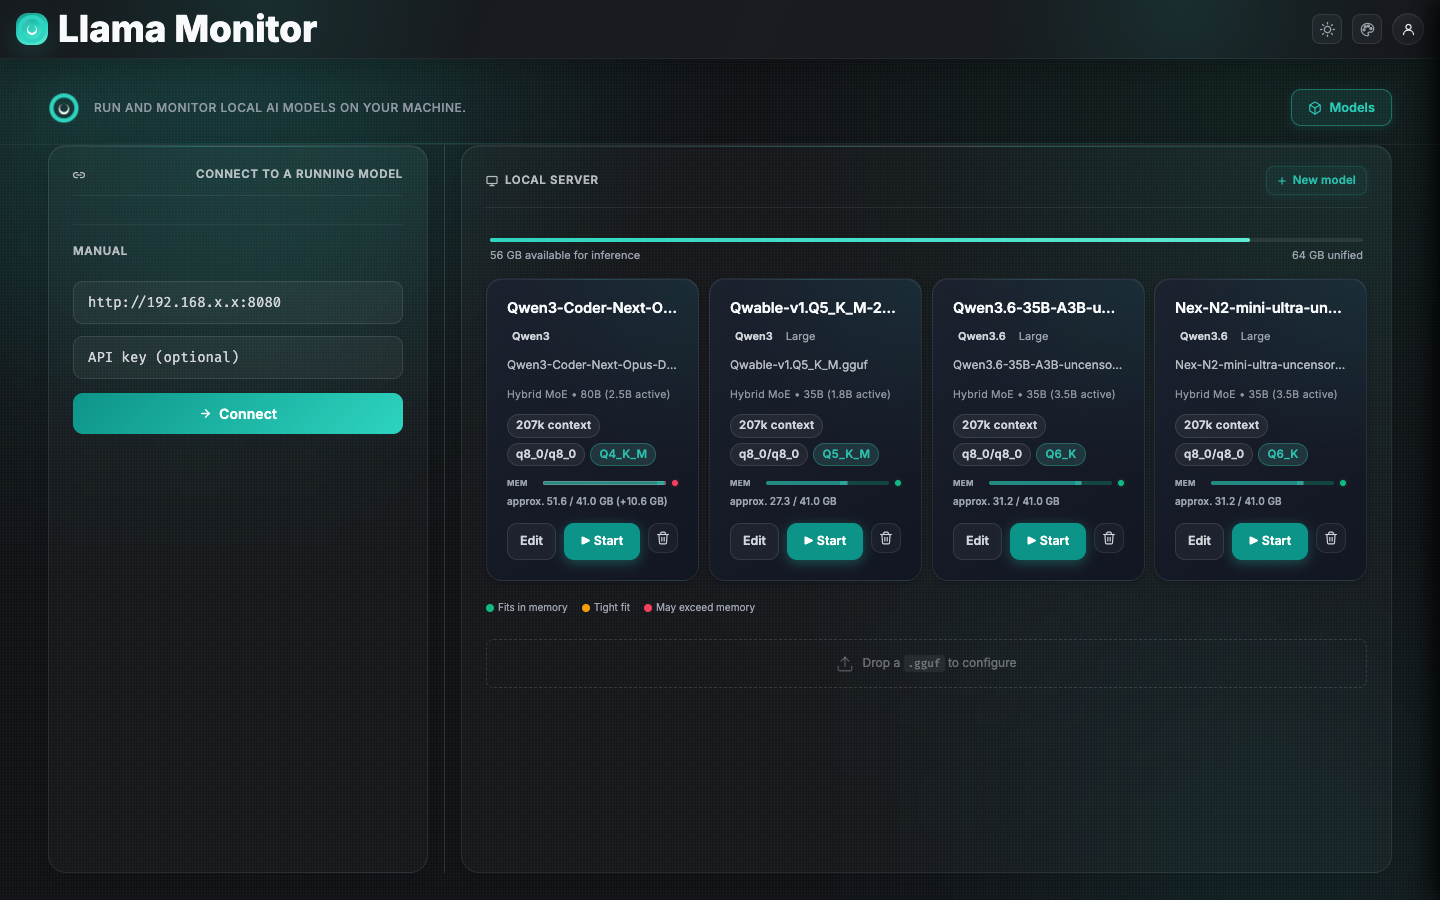
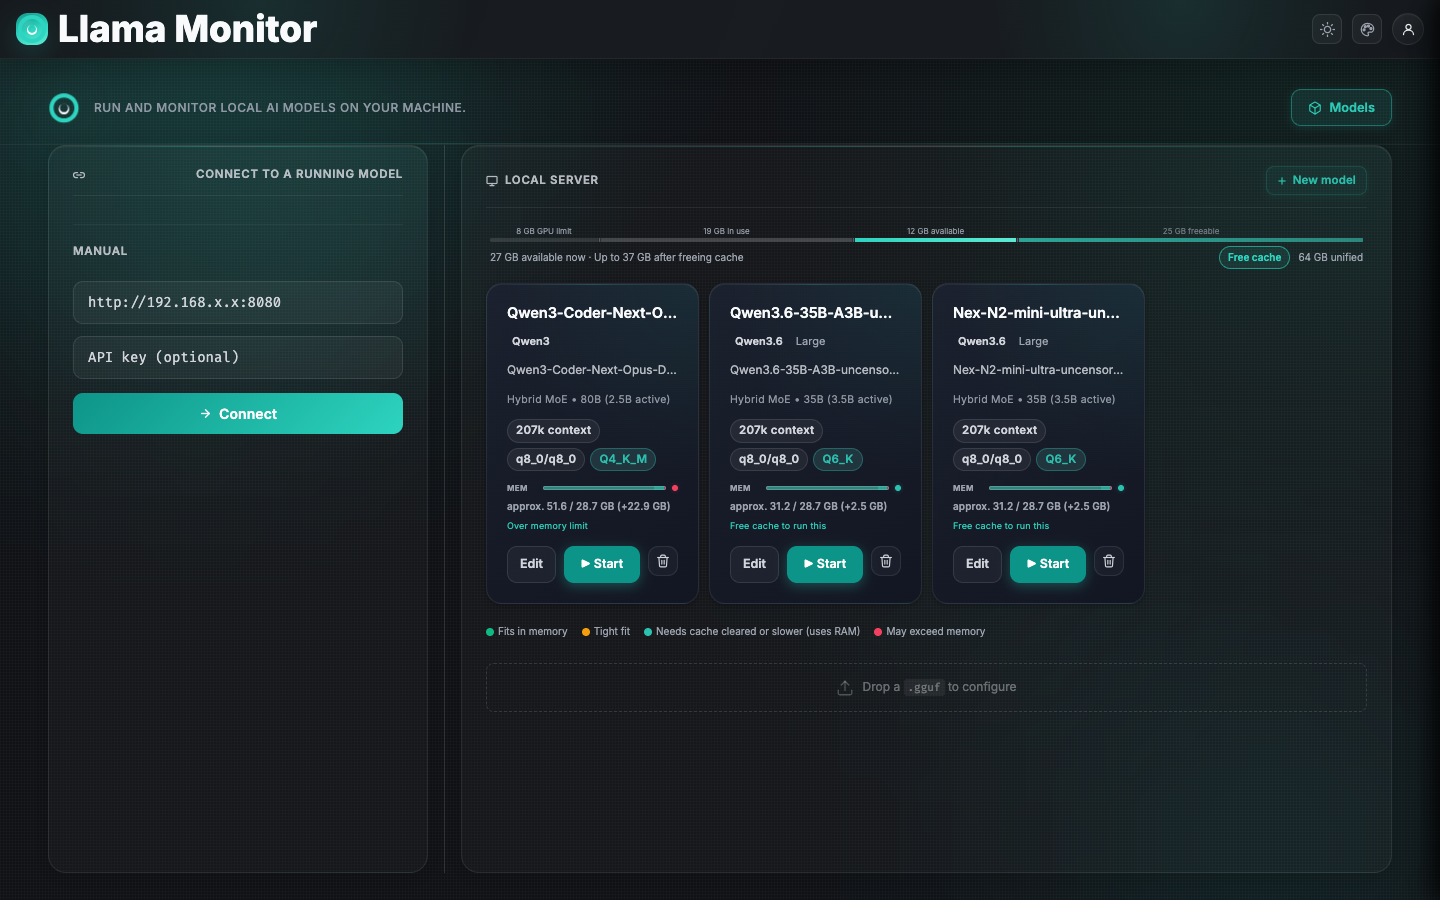
fmt + promote welcome-welcome.png screenshot

diff --git a/src/gen/static_assets.rs b/src/gen/static_assets.rs
@@ -9,7 +9,8 @@ pub const CSS_AUTH: &str = include_str!("../../static/css/auth.css");
 pub const CSS_BASE: &str = include_str!("../../static/css/base.css");
 pub const CSS_CARDS_HARDWARE: &str = include_str!("../../static/css/cards-hardware.css");
 pub const CSS_CARDS_INFERENCE: &str = include_str!("../../static/css/cards-inference.css");
-pub const CSS_CHAT_GUIDED_GENERATION: &str = include_str!("../../static/css/chat-guided-generation.css");
+pub const CSS_CHAT_GUIDED_GENERATION: &str =
+    include_str!("../../static/css/chat-guided-generation.css");
 pub const CSS_CHAT_HISTORY_QA: &str = include_str!("../../static/css/chat-history-qa.css");
 pub const CSS_CHAT: &str = include_str!("../../static/css/chat.css");
 pub const CSS_COMMAND_PALETTE: &str = include_str!("../../static/css/command-palette.css");
@@ -32,55 +33,76 @@ pub const CORE_APP_STATE_JS: &str = include_str!("../../static/js/core/app-state
 pub const CORE_FORMAT_JS: &str = include_str!("../../static/js/core/format.js");
 pub const CORE_TOOLTIP_JS: &str = include_str!("../../static/js/core/tooltip.js");
 pub const FEATURES_ANIMATE_JS: &str = include_str!("../../static/js/features/animate.js");
-pub const FEATURES_ATTACH_DETACH_JS: &str = include_str!("../../static/js/features/attach-detach.js");
+pub const FEATURES_ATTACH_DETACH_JS: &str =
+    include_str!("../../static/js/features/attach-detach.js");
 pub const FEATURES_AUTH_JS: &str = include_str!("../../static/js/features/auth.js");
-pub const FEATURES_CHAT_FOCUS_MODE_JS: &str = include_str!("../../static/js/features/chat-focus-mode.js");
-pub const FEATURES_CHAT_HISTORY_QA_JS: &str = include_str!("../../static/js/features/chat-history-qa.js");
+pub const FEATURES_CHAT_FOCUS_MODE_JS: &str =
+    include_str!("../../static/js/features/chat-focus-mode.js");
+pub const FEATURES_CHAT_HISTORY_QA_JS: &str =
+    include_str!("../../static/js/features/chat-history-qa.js");
 pub const FEATURES_CHAT_NOTES_JS: &str = include_str!("../../static/js/features/chat-notes.js");
 pub const FEATURES_CHAT_PARAMS_JS: &str = include_str!("../../static/js/features/chat-params.js");
-pub const FEATURES_CHAT_QUICK_GUIDE_JS: &str = include_str!("../../static/js/features/chat-quick-guide.js");
+pub const FEATURES_CHAT_QUICK_GUIDE_JS: &str =
+    include_str!("../../static/js/features/chat-quick-guide.js");
 pub const FEATURES_CHAT_RENDER_JS: &str = include_str!("../../static/js/features/chat-render.js");
-pub const FEATURES_CHAT_REPLY_PLAN_JS: &str = include_str!("../../static/js/features/chat-reply-plan.js");
+pub const FEATURES_CHAT_REPLY_PLAN_JS: &str =
+    include_str!("../../static/js/features/chat-reply-plan.js");
 pub const FEATURES_CHAT_SEARCH_JS: &str = include_str!("../../static/js/features/chat-search.js");
-pub const FEATURES_CHAT_SESSIONS_SIDEBAR_JS: &str = include_str!("../../static/js/features/chat-sessions-sidebar.js");
+pub const FEATURES_CHAT_SESSIONS_SIDEBAR_JS: &str =
+    include_str!("../../static/js/features/chat-sessions-sidebar.js");
 pub const FEATURES_CHAT_STATE_JS: &str = include_str!("../../static/js/features/chat-state.js");
-pub const FEATURES_CHAT_SUGGESTIONS_JS: &str = include_str!("../../static/js/features/chat-suggestions.js");
-pub const FEATURES_CHAT_TEMPLATE_REGISTRY_JS: &str = include_str!("../../static/js/features/chat-template-registry.js");
-pub const FEATURES_CHAT_TEMPLATES_JS: &str = include_str!("../../static/js/features/chat-templates.js");
-pub const FEATURES_CHAT_TRANSPORT_JS: &str = include_str!("../../static/js/features/chat-transport.js");
-pub const FEATURES_CHAT_WIDTH_OBSERVER_JS: &str = include_str!("../../static/js/features/chat-width-observer.js");
+pub const FEATURES_CHAT_SUGGESTIONS_JS: &str =
+    include_str!("../../static/js/features/chat-suggestions.js");
+pub const FEATURES_CHAT_TEMPLATE_REGISTRY_JS: &str =
+    include_str!("../../static/js/features/chat-template-registry.js");
+pub const FEATURES_CHAT_TEMPLATES_JS: &str =
+    include_str!("../../static/js/features/chat-templates.js");
+pub const FEATURES_CHAT_TRANSPORT_JS: &str =
+    include_str!("../../static/js/features/chat-transport.js");
+pub const FEATURES_CHAT_WIDTH_OBSERVER_JS: &str =
+    include_str!("../../static/js/features/chat-width-observer.js");
 pub const FEATURES_CONFIG_JS: &str = include_str!("../../static/js/features/config.js");
 pub const FEATURES_CONTEXT_CARD_JS: &str = include_str!("../../static/js/features/context-card.js");
-pub const FEATURES_DASHBOARD_RENDER_JS: &str = include_str!("../../static/js/features/dashboard-render.js");
+pub const FEATURES_DASHBOARD_RENDER_JS: &str =
+    include_str!("../../static/js/features/dashboard-render.js");
 pub const FEATURES_DASHBOARD_WS_JS: &str = include_str!("../../static/js/features/dashboard-ws.js");
 pub const FEATURES_DB_ADMIN_JS: &str = include_str!("../../static/js/features/db-admin.js");
-pub const FEATURES_FILE_BROWSER_LAUNCHER_JS: &str = include_str!("../../static/js/features/file-browser-launcher.js");
+pub const FEATURES_FILE_BROWSER_LAUNCHER_JS: &str =
+    include_str!("../../static/js/features/file-browser-launcher.js");
 pub const FEATURES_FILE_BROWSER_JS: &str = include_str!("../../static/js/features/file-browser.js");
 pub const FEATURES_HF_BROWSE_JS: &str = include_str!("../../static/js/features/hf-browse.js");
 pub const FEATURES_LHM_JS: &str = include_str!("../../static/js/features/lhm.js");
-pub const FEATURES_LLAMA_UPDATER_JS: &str = include_str!("../../static/js/features/llama-updater.js");
+pub const FEATURES_LLAMA_UPDATER_JS: &str =
+    include_str!("../../static/js/features/llama-updater.js");
 pub const FEATURES_MODELS_JS: &str = include_str!("../../static/js/features/models.js");
 pub const FEATURES_NAV_JS: &str = include_str!("../../static/js/features/nav.js");
-pub const FEATURES_NETWORK_DETECTION_JS: &str = include_str!("../../static/js/features/network-detection.js");
+pub const FEATURES_NETWORK_DETECTION_JS: &str =
+    include_str!("../../static/js/features/network-detection.js");
 pub const FEATURES_PRESETS_JS: &str = include_str!("../../static/js/features/presets.js");
 pub const FEATURES_REMOTE_AGENT_JS: &str = include_str!("../../static/js/features/remote-agent.js");
 pub const FEATURES_ROUTER_JS: &str = include_str!("../../static/js/features/router.js");
-pub const FEATURES_SENSOR_BRIDGE_JS: &str = include_str!("../../static/js/features/sensor-bridge.js");
+pub const FEATURES_SENSOR_BRIDGE_JS: &str =
+    include_str!("../../static/js/features/sensor-bridge.js");
 pub const FEATURES_SESSIONS_JS: &str = include_str!("../../static/js/features/sessions.js");
 pub const FEATURES_SETTINGS_JS: &str = include_str!("../../static/js/features/settings.js");
 pub const FEATURES_SETUP_VIEW_JS: &str = include_str!("../../static/js/features/setup-view.js");
 pub const FEATURES_SHORTCUTS_JS: &str = include_str!("../../static/js/features/shortcuts.js");
-pub const FEATURES_SPAWN_READINESS_JS: &str = include_str!("../../static/js/features/spawn-readiness.js");
+pub const FEATURES_SPAWN_READINESS_JS: &str =
+    include_str!("../../static/js/features/spawn-readiness.js");
 pub const FEATURES_SPAWN_WIZARD_JS: &str = include_str!("../../static/js/features/spawn-wizard.js");
-pub const FEATURES_TELEMETRY_GRADE_JS: &str = include_str!("../../static/js/features/telemetry-grade.js");
-pub const FEATURES_TEMPLATE_AUTOUPDATER_JS: &str = include_str!("../../static/js/features/template-autoupdater.js");
+pub const FEATURES_TELEMETRY_GRADE_JS: &str =
+    include_str!("../../static/js/features/telemetry-grade.js");
+pub const FEATURES_TEMPLATE_AUTOUPDATER_JS: &str =
+    include_str!("../../static/js/features/template-autoupdater.js");
 pub const FEATURES_TOAST_JS: &str = include_str!("../../static/js/features/toast.js");
 pub const FEATURES_TUNE_PANEL_JS: &str = include_str!("../../static/js/features/tune-panel.js");
 pub const FEATURES_TUNING_CARDS_JS: &str = include_str!("../../static/js/features/tuning-cards.js");
 pub const FEATURES_UPDATES_JS: &str = include_str!("../../static/js/features/updates.js");
 pub const FEATURES_USER_MENU_JS: &str = include_str!("../../static/js/features/user-menu.js");
-pub const FEATURES_VRAM_ESTIMATE_JS: &str = include_str!("../../static/js/features/vram-estimate.js");
-pub const FEATURES_WORKSPACE_COMMAND_PALETTE_JS: &str = include_str!("../../static/js/features/workspace-command-palette.js");
+pub const FEATURES_VRAM_ESTIMATE_JS: &str =
+    include_str!("../../static/js/features/vram-estimate.js");
+pub const FEATURES_WORKSPACE_COMMAND_PALETTE_JS: &str =
+    include_str!("../../static/js/features/workspace-command-palette.js");
 pub const MANIFEST_JSON: &str = include_str!("../../static/manifest.json");
 pub const ACTION_MD: &str = include_str!("../../static/prompts/action.md");
 pub const CHARACTER_MD: &str = include_str!("../../static/prompts/character.md");
@@ -100,7 +122,8 @@ pub const SCI_FI_MD: &str = include_str!("../../static/prompts/sci-fi.md");
 pub const TEMPLATE_MD: &str = include_str!("../../static/prompts/template.md");
 pub const THRILLER_MD: &str = include_str!("../../static/prompts/thriller.md");
 pub const SW_JS: &str = include_str!("../../static/sw.js");
-pub const ATOM_ONE_DARK_MIN_CSS: &str = include_str!("../../static/vendor/css/atom-one-dark.min.css");
+pub const ATOM_ONE_DARK_MIN_CSS: &str =
+    include_str!("../../static/vendor/css/atom-one-dark.min.css");
 pub const HIGHLIGHT_MIN_JS: &str = include_str!("../../static/vendor/js/highlight.min.js");
 pub const MARKED_MIN_JS: &str = include_str!("../../static/vendor/js/marked.min.js");
 pub const PURIFY_MIN_JS: &str = include_str!("../../static/vendor/js/purify.min.js");

diff --git a/src/gen/routes.rs b/src/gen/routes.rs
@@ -7,7 +7,8 @@ use super::static_assets;
 use warp::Filter;
 
 /// Returns a warp Filter that serves all static assets.
-pub fn static_routes() -> impl warp::Filter<Extract = (impl warp::Reply,), Error = warp::Rejection> + Clone {
+pub fn static_routes()
+-> impl warp::Filter<Extract = (impl warp::Reply,), Error = warp::Rejection> + Clone {
     // Helper: serve static JS with no-cache (force browser to reload on every request)
     fn js_reply(content: &'static str) -> impl warp::Reply {
         warp::reply::with_header(
@@ -497,5 +498,35 @@ pub fn static_routes() -> impl warp::Filter<Extract = (impl warp::Reply,), Error
         .map(|| js_reply(static_assets::PURIFY_MIN_JS));
 
     // Chain all routes using balanced tree structure
-    ((((((route_0).or((route_1).or(route_2))).or((route_3).or((route_4).or(route_5)))).or(((route_6).or((route_7).or(route_8))).or((route_9).or((route_10).or(route_11))))).or((((route_12).or((route_13).or(route_14))).or((route_15).or((route_16).or(route_17)))).or(((route_18).or((route_19).or(route_20))).or(((route_21).or(route_22)).or((route_23).or(route_24)))))).or(((((route_25).or((route_26).or(route_27))).or((route_28).or((route_29).or(route_30)))).or(((route_31).or((route_32).or(route_33))).or((route_34).or((route_35).or(route_36))))).or((((route_37).or((route_38).or(route_39))).or((route_40).or((route_41).or(route_42)))).or(((route_43).or((route_44).or(route_45))).or(((route_46).or(route_47)).or((route_48).or(route_49))))))).or((((((route_50).or((route_51).or(route_52))).or((route_53).or((route_54).or(route_55)))).or(((route_56).or((route_57).or(route_58))).or((route_59).or((route_60).or(route_61))))).or((((route_62).or((route_63).or(route_64))).or((route_65).or((route_66).or(route_67)))).or(((route_68).or((route_69).or(route_70))).or(((route_71).or(route_72)).or((route_73).or(route_74)))))).or(((((route_75).or((route_76).or(route_77))).or((route_78).or((route_79).or(route_80)))).or(((route_81).or((route_82).or(route_83))).or((route_84).or((route_85).or(route_86))))).or((((route_87).or((route_88).or(route_89))).or((route_90).or((route_91).or(route_92)))).or(((route_93).or((route_94).or(route_95))).or(((route_96).or(route_97)).or((route_98).or(route_99)))))))
+    ((((((route_0).or((route_1).or(route_2))).or((route_3).or((route_4).or(route_5))))
+        .or(((route_6).or((route_7).or(route_8))).or((route_9).or((route_10).or(route_11)))))
+    .or(
+        (((route_12).or((route_13).or(route_14))).or((route_15).or((route_16).or(route_17))))
+            .or(((route_18).or((route_19).or(route_20)))
+                .or(((route_21).or(route_22)).or((route_23).or(route_24)))),
+    ))
+    .or(((((route_25).or((route_26).or(route_27)))
+        .or((route_28).or((route_29).or(route_30))))
+    .or(((route_31).or((route_32).or(route_33))).or((route_34).or((route_35).or(route_36)))))
+    .or(
+        (((route_37).or((route_38).or(route_39))).or((route_40).or((route_41).or(route_42))))
+            .or(((route_43).or((route_44).or(route_45)))
+                .or(((route_46).or(route_47)).or((route_48).or(route_49)))),
+    )))
+    .or((((((route_50).or((route_51).or(route_52)))
+        .or((route_53).or((route_54).or(route_55))))
+    .or(((route_56).or((route_57).or(route_58))).or((route_59).or((route_60).or(route_61)))))
+    .or(
+        (((route_62).or((route_63).or(route_64))).or((route_65).or((route_66).or(route_67))))
+            .or(((route_68).or((route_69).or(route_70)))
+                .or(((route_71).or(route_72)).or((route_73).or(route_74)))),
+    ))
+    .or(((((route_75).or((route_76).or(route_77)))
+        .or((route_78).or((route_79).or(route_80))))
+    .or(((route_81).or((route_82).or(route_83))).or((route_84).or((route_85).or(route_86)))))
+    .or(
+        (((route_87).or((route_88).or(route_89))).or((route_90).or((route_91).or(route_92))))
+            .or(((route_93).or((route_94).or(route_95)))
+                .or(((route_96).or(route_97)).or((route_98).or(route_99)))),
+    )))
 }